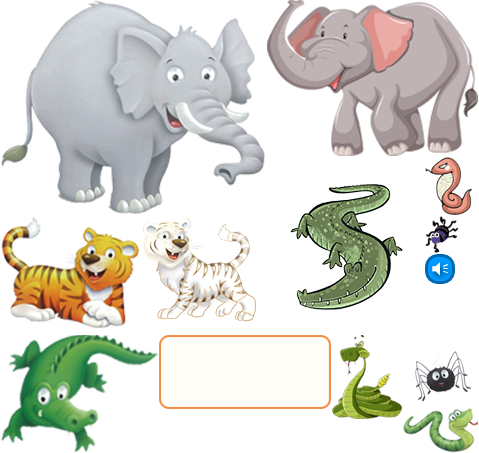
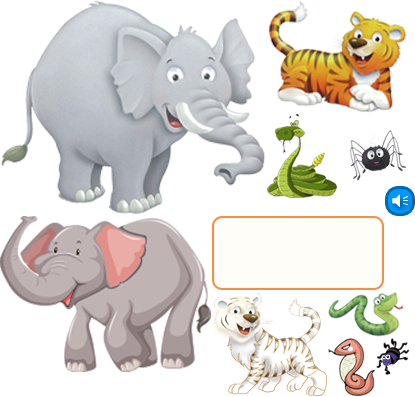
泡泡加赛跑

diff --git a/bin/js/ui/layaUI.max.all.js b/bin/js/ui/layaUI.max.all.js
@@ -21,7 +21,7 @@ var ui;
             _super.prototype.createChildren.call(this);
             this.createView(ui.BubbleAnimalUI.uiView);
         };
-        BubbleAnimalUI.uiView = { "type": "View", "props": { "width": 1024, "height": 768 }, "child": [{ "type": "Image", "props": { "width": 1024, "var": "bg", "skin": "BubbleAnimal/bg1.png", "height": 768 } }, { "type": "Image", "props": { "y": 700, "x": 845, "var": "replayon", "skin": "BubbleAnimal/replayon.png" } }, { "type": "Image", "props": { "y": 700, "x": 845, "var": "replaydown", "skin": "BubbleAnimal/replaydown.png" } }, { "type": "Image", "props": { "y": 52, "x": 936, "var": "polly", "skin": "BubbleAnimal/polly3.png", "pivotX": 68 } }, { "type": "Image", "props": { "y": 171, "x": 42, "skin": "BubbleAnimal/ani1-2.png", "name": "ani1-2" } }, { "type": "Image", "props": { "y": 209, "x": 386, "skin": "BubbleAnimal/ani2-2.png", "name": "ani2-2" } }, { "type": "Image", "props": { "y": 238, "x": 219, "skin": "BubbleAnimal/ani3-2.png", "name": "ani3-2" } }, { "type": "Image", "props": { "y": 205, "x": 782, "skin": "BubbleAnimal/ani4-2.png", "name": "ani4-2" } }, { "type": "Image", "props": { "y": 132, "x": 541, "skin": "BubbleAnimal/ani5-2.png", "name": "ani5-2" } }, { "type": "Image", "props": { "y": 203, "x": 581, "skin": "BubbleAnimal/ani5-1.png", "name": "ani5-1" } }, { "type": "Image", "props": { "y": 231, "x": 53, "skin": "BubbleAnimal/ani1-1.png", "name": "ani1-1" } }, { "type": "Image", "props": { "y": 256, "x": 432, "skin": "BubbleAnimal/ani2-1.png", "name": "ani2-1" } }, { "type": "Image", "props": { "y": 305, "x": 219, "skin": "BubbleAnimal/ani3-1.png", "name": "ani3-1" } }, { "type": "Image", "props": { "y": 268, "x": 782, "skin": "BubbleAnimal/ani4-1.png", "name": "ani4-1" } }] };
+        BubbleAnimalUI.uiView = { "type": "View", "props": { "width": 1024, "height": 768 }, "child": [{ "type": "Image", "props": { "width": 1024, "var": "bg", "skin": "BubbleAnimal/bg1.png", "height": 768 } }, { "type": "Image", "props": { "y": 700, "x": 845, "var": "replayon", "skin": "BubbleAnimal/replayon.png" } }, { "type": "Image", "props": { "y": 700, "x": 845, "var": "replaydown", "skin": "BubbleAnimal/replaydown.png" } }, { "type": "Image", "props": { "y": 52, "x": 936, "var": "polly", "skin": "BubbleAnimal/polly3.png", "pivotX": 68 } }, { "type": "Image", "props": { "y": 171, "x": 82, "skin": "BubbleAnimal/ani1-2.png", "name": "ani1-2" } }, { "type": "Image", "props": { "y": 238, "x": 259, "skin": "BubbleAnimal/ani3-2.png", "name": "ani3-2" } }, { "type": "Image", "props": { "y": 205, "x": 682, "skin": "BubbleAnimal/ani4-2.png", "name": "ani4-2" } }, { "type": "Image", "props": { "y": 132, "x": 441, "skin": "BubbleAnimal/ani2-2.png", "name": "ani2-2" } }, { "type": "Image", "props": { "y": 203, "x": 481, "skin": "BubbleAnimal/ani2-1.png", "name": "ani2-1" } }, { "type": "Image", "props": { "y": 231, "x": 93, "skin": "BubbleAnimal/ani1-1.png", "name": "ani1-1" } }, { "type": "Image", "props": { "y": 305, "x": 259, "skin": "BubbleAnimal/ani3-1.png", "name": "ani3-1" } }, { "type": "Image", "props": { "y": 268, "x": 682, "skin": "BubbleAnimal/ani4-1.png", "name": "ani4-1" } }] };
         return BubbleAnimalUI;
     }(View));
     ui.BubbleAnimalUI = BubbleAnimalUI;
@@ -36,7 +36,7 @@ var ui;
             _super.prototype.createChildren.call(this);
             this.createView(ui.DragAnimalUI.uiView);
         };
-        DragAnimalUI.uiView = { "type": "View", "props": { "width": 1024, "height": 768 }, "child": [{ "type": "Image", "props": { "y": 0, "x": 0, "skin": "DragAnimal/main-bg.png" } }, { "type": "Image", "props": { "y": 666, "x": 30, "skin": "DragAnimal/bottom-bg.png" } }, { "type": "Image", "props": { "y": 666, "x": 228, "skin": "DragAnimal/bottom-bg.png" } }, { "type": "Image", "props": { "y": 666, "x": 426, "skin": "DragAnimal/bottom-bg.png" } }, { "type": "Image", "props": { "y": 666, "x": 624, "skin": "DragAnimal/bottom-bg.png" } }, { "type": "Image", "props": { "y": 666, "x": 822, "skin": "DragAnimal/bottom-bg.png" } }, { "type": "Image", "props": { "y": 672, "x": 36, "var": "crocodileAudio", "skin": "DragAnimal/audio.png" } }, { "type": "Image", "props": { "y": 672, "x": 234, "var": "elephantAudio", "skin": "DragAnimal/audio.png" } }, { "type": "Image", "props": { "y": 673, "x": 433, "var": "snakeAudio", "skin": "DragAnimal/audio.png" } }, { "type": "Image", "props": { "y": 673, "x": 632, "var": "spiderAudio", "skin": "DragAnimal/audio.png" } }, { "type": "Image", "props": { "y": 674, "x": 829, "var": "tigerAudio", "skin": "DragAnimal/audio.png" } }, { "type": "Image", "props": { "y": 570, "x": 858, "var": "replayBtn", "skin": "common/replay-disabled.png" } }, { "type": "Image", "props": { "y": 490, "x": 532, "var": "crocodile1", "skin": "DragAnimal/crocodile1.png" } }, { "type": "Image", "props": { "y": 447, "x": 729, "var": "crocodile2", "skin": "DragAnimal/crocodile2.png" } }, { "type": "Image", "props": { "y": 512, "x": 7, "var": "tiger1", "skin": "DragAnimal/tiger1.png" } }, { "type": "Image", "props": { "y": 521, "x": 149, "width": 46, "var": "snake2", "skin": "DragAnimal/snake2.png", "height": 54 } }, { "type": "Image", "props": { "y": 402, "x": 200, "var": "elephant1", "skin": "DragAnimal/elephant1.png" } }, { "type": "Image", "props": { "y": 368, "x": 1, "var": "elephant2", "skin": "DragAnimal/elephant2.png" } }, { "type": "Image", "props": { "y": 538, "x": 467, "var": "snake1", "skin": "DragAnimal/snake1.png" } }, { "type": "Image", "props": { "y": 579, "x": 153, "var": "snake3", "skin": "DragAnimal/snake3.png" } }, { "type": "Image", "props": { "y": 506, "x": 951, "var": "spider1", "skin": "DragAnimal/spider1.png" } }, { "type": "Image", "props": { "y": 341, "x": 907, "var": "spider2", "skin": "DragAnimal/spider2.png" } }, { "type": "Image", "props": { "y": 357, "x": 438, "var": "tiger2", "skin": "DragAnimal/tiger2.png" } }, { "type": "Image", "props": { "y": 678, "x": 67, "width": 70, "var": "crocodile1Small", "skin": "DragAnimal/crocodile1.png", "height": 58 } }, { "type": "Image", "props": { "y": 661, "x": 133, "width": 63, "var": "crocodile2Small", "skin": "DragAnimal/crocodile2.png", "height": 85 } }, { "type": "Image", "props": { "y": 674, "x": 258, "width": 72, "var": "elephant1Small", "skin": "DragAnimal/elephant1.png", "height": 52 } }, { "type": "Image", "props": { "y": 679, "x": 327, "width": 68, "var": "elephant2Small", "skin": "DragAnimal/elephant2.png", "height": 45 } }, { "type": "Image", "props": { "y": 690, "x": 508, "width": 40, "var": "snake1Small", "skin": "DragAnimal/snake1.png", "height": 45 } }, { "type": "Image", "props": { "y": 677, "x": 464, "width": 37, "var": "snake2Small", "skin": "DragAnimal/snake2.png", "height": 45 } }, { "type": "Image", "props": { "y": 669, "x": 523, "width": 71, "var": "snake3Small", "skin": "DragAnimal/snake3.png", "height": 41 } }, { "type": "Image", "props": { "y": 684, "x": 679, "width": 34, "var": "spider1Small", "skin": "DragAnimal/spider1.png", "height": 37 } }, { "type": "Image", "props": { "y": 658, "x": 718, "width": 68, "var": "spider2Small", "skin": "DragAnimal/spider2.png", "height": 71 } }, { "type": "Image", "props": { "y": 668, "x": 921, "width": 70, "var": "tiger1Small", "skin": "DragAnimal/tiger1.png", "height": 51 } }, { "type": "Image", "props": { "y": 686, "x": 859, "width": 64, "var": "tiger2Small", "skin": "DragAnimal/tiger2.png", "height": 50 } }] };
+        DragAnimalUI.uiView = { "type": "View", "props": { "width": 1024, "height": 768 }, "child": [{ "type": "Image", "props": { "y": 0, "x": 0, "skin": "DragAnimal/main-bg.png" } }, { "type": "Image", "props": { "y": 666, "x": 67, "skin": "DragAnimal/bottom-bg.png" } }, { "type": "Image", "props": { "y": 666, "x": 306, "skin": "DragAnimal/bottom-bg.png" } }, { "type": "Image", "props": { "y": 666, "x": 545, "skin": "DragAnimal/bottom-bg.png" } }, { "type": "Image", "props": { "y": 666, "x": 784, "skin": "DragAnimal/bottom-bg.png" } }, { "type": "Image", "props": { "y": 672, "x": 73, "var": "elephantAudio", "skin": "DragAnimal/audio.png" } }, { "type": "Image", "props": { "y": 673, "x": 313, "var": "snakeAudio", "skin": "DragAnimal/audio.png" } }, { "type": "Image", "props": { "y": 673, "x": 553, "var": "spiderAudio", "skin": "DragAnimal/audio.png" } }, { "type": "Image", "props": { "y": 674, "x": 791, "var": "tigerAudio", "skin": "DragAnimal/audio.png" } }, { "type": "Image", "props": { "y": 570, "x": 858, "var": "replayBtn", "skin": "common/replay-disabled.png" } }, { "type": "Image", "props": { "y": 512, "x": 10, "var": "tiger1", "skin": "DragAnimal/tiger1.png" } }, { "type": "Image", "props": { "y": 453, "x": 611, "width": 46, "var": "snake2", "skin": "DragAnimal/snake2.png", "height": 54 } }, { "type": "Image", "props": { "y": 362, "x": 284, "var": "elephant1", "skin": "DragAnimal/elephant1.png" } }, { "type": "Image", "props": { "y": 376, "x": 69, "var": "elephant2", "skin": "DragAnimal/elephant2.png" } }, { "type": "Image", "props": { "y": 535, "x": 457, "var": "snake1", "skin": "DragAnimal/snake1.png" } }, { "type": "Image", "props": { "y": 569, "x": 244, "var": "snake3", "skin": "DragAnimal/snake3.png" } }, { "type": "Image", "props": { "y": 506, "x": 951, "var": "spider1", "skin": "DragAnimal/spider1.png" } }, { "type": "Image", "props": { "y": 341, "x": 907, "var": "spider2", "skin": "DragAnimal/spider2.png" } }, { "type": "Image", "props": { "y": 401, "x": 737, "var": "tiger2", "skin": "DragAnimal/tiger2.png" } }, { "type": "Image", "props": { "y": 674, "x": 97, "width": 72, "var": "elephant1Small", "skin": "DragAnimal/elephant1.png", "height": 52 } }, { "type": "Image", "props": { "y": 679, "x": 166, "width": 68, "var": "elephant2Small", "skin": "DragAnimal/elephant2.png", "height": 45 } }, { "type": "Image", "props": { "y": 690, "x": 388, "width": 40, "var": "snake1Small", "skin": "DragAnimal/snake1.png", "height": 45 } }, { "type": "Image", "props": { "y": 677, "x": 344, "width": 37, "var": "snake2Small", "skin": "DragAnimal/snake2.png", "height": 45 } }, { "type": "Image", "props": { "y": 669, "x": 403, "width": 71, "var": "snake3Small", "skin": "DragAnimal/snake3.png", "height": 41 } }, { "type": "Image", "props": { "y": 684, "x": 600, "width": 34, "var": "spider1Small", "skin": "DragAnimal/spider1.png", "height": 37 } }, { "type": "Image", "props": { "y": 658, "x": 639, "width": 68, "var": "spider2Small", "skin": "DragAnimal/spider2.png", "height": 71 } }, { "type": "Image", "props": { "y": 668, "x": 883, "width": 70, "var": "tiger1Small", "skin": "DragAnimal/tiger1.png", "height": 51 } }, { "type": "Image", "props": { "y": 686, "x": 821, "width": 64, "var": "tiger2Small", "skin": "DragAnimal/tiger2.png", "height": 50 } }] };
         return DragAnimalUI;
     }(View));
     ui.DragAnimalUI = DragAnimalUI;
@@ -51,7 +51,7 @@ var ui;
             _super.prototype.createChildren.call(this);
             this.createView(ui.RunRaceUI.uiView);
         };
-        RunRaceUI.uiView = { "type": "View", "props": { "width": 1024, "height": 768 }, "child": [{ "type": "Image", "props": { "width": 1024, "var": "bg", "skin": "RunRace/bg.png", "height": 768 } }, { "type": "Image", "props": { "var": "readygo", "skin": "RunRace/start.png", "centerY": 0, "centerX": 0 } }, { "type": "Image", "props": { "y": 126, "x": 106, "skin": "RunRace/fans-robbit-1.png", "name": "fans1" } }, { "type": "Image", "props": { "y": 146, "x": 241, "skin": "RunRace/fans-cat-1.png", "name": "fans2" } }, { "type": "Image", "props": { "y": 124, "x": 390, "skin": "RunRace/fans-robbit-1.png", "name": "fans3" } }, { "type": "Image", "props": { "y": 122, "x": 684, "skin": "RunRace/fans-robbit-1.png", "name": "fans4" } }, { "type": "Image", "props": { "y": 146, "x": 528, "skin": "RunRace/fans-cat-1.png", "name": "fans5" } }, { "type": "Image", "props": { "y": 148, "x": 830, "skin": "RunRace/fans-cat-1.png", "name": "fans6" } }, { "type": "Image", "props": { "y": 367, "x": 5, "skin": "RunRace/player1.png", "pivotY": 20, "pivotX": -30, "name": "player1" } }, { "type": "Image", "props": { "y": 589, "x": 4, "skin": "RunRace/player2.png", "pivotY": 20, "pivotX": -30, "name": "player2" } }, { "type": "Image", "props": { "y": 293, "x": 3, "skin": "RunRace/player3.png", "pivotY": 15, "pivotX": -40, "name": "player3" } }, { "type": "Image", "props": { "y": 441, "x": 3, "skin": "RunRace/player4.png", "pivotY": 20, "pivotX": -40, "name": "player4" } }, { "type": "Image", "props": { "y": 516, "x": 6, "skin": "RunRace/player5.png", "pivotX": -5, "name": "player5" } }, { "type": "Image", "props": { "y": 280, "x": 920, "visible": false, "var": "winner", "skin": "RunRace/winner.png" } }, { "type": "Box", "props": { "y": 657, "x": 0, "width": 1024, "var": "btnbox", "height": 105 }, "child": [{ "type": "Image", "props": { "y": -7, "x": 540, "skin": "RunRace/player1-btn1.png", "name": "btn-player1" } }, { "type": "Image", "props": { "y": -10, "x": 32, "skin": "RunRace/player2-btn1.png", "name": "btn-player2" } }, { "type": "Image", "props": { "y": 8, "x": 710, "skin": "RunRace/player3-btn1.png", "name": "btn-player3" } }, { "type": "Image", "props": { "y": 5, "x": 370, "skin": "RunRace/player4-btn1.png", "name": "btn-player4" } }, { "type": "Image", "props": { "y": 9, "x": 200, "skin": "RunRace/player5-btn1.png", "name": "btn-player5" } }, { "type": "Image", "props": { "y": 11, "x": 540, "skin": "RunRace/player1-btn2.png", "name": "btn2-player1" } }, { "type": "Image", "props": { "y": 6, "x": 32, "skin": "RunRace/player2-btn2.png", "name": "btn2-player2" } }, { "type": "Image", "props": { "y": 23, "x": 710, "skin": "RunRace/player3-btn2.png", "name": "btn2-player3" } }, { "type": "Image", "props": { "y": 19, "x": 370, "skin": "RunRace/player4-btn2.png", "name": "btn2-player4" } }, { "type": "Image", "props": { "y": 23, "x": 200, "skin": "RunRace/player5-btn2.png", "name": "btn2-player5" } }, { "type": "Image", "props": { "y": 34, "x": 891, "visible": false, "var": "replayon", "skin": "RunRace/replay1.png" } }, { "type": "Image", "props": { "y": 51, "x": 891, "var": "replaydown", "skin": "RunRace/replay2.png" } }] }] };
+        RunRaceUI.uiView = { "type": "View", "props": { "width": 1024, "height": 768 }, "child": [{ "type": "Image", "props": { "width": 1024, "var": "bg", "skin": "RunRace/bg4.png", "height": 768 } }, { "type": "Image", "props": { "var": "readygo", "skin": "RunRace/start.png", "centerY": 0, "centerX": 0 } }, { "type": "Image", "props": { "y": 126, "x": 106, "skin": "RunRace/fans-robbit-1.png", "name": "fans1" } }, { "type": "Image", "props": { "y": 146, "x": 241, "skin": "RunRace/fans-cat-1.png", "name": "fans2" } }, { "type": "Image", "props": { "y": 124, "x": 390, "skin": "RunRace/fans-robbit-1.png", "name": "fans3" } }, { "type": "Image", "props": { "y": 122, "x": 684, "skin": "RunRace/fans-robbit-1.png", "name": "fans4" } }, { "type": "Image", "props": { "y": 146, "x": 528, "skin": "RunRace/fans-cat-1.png", "name": "fans5" } }, { "type": "Image", "props": { "y": 148, "x": 830, "skin": "RunRace/fans-cat-1.png", "name": "fans6" } }, { "type": "Image", "props": { "y": 390, "x": 5, "skin": "RunRace/player1.png", "pivotY": 20, "pivotX": -30, "name": "player1" } }, { "type": "Image", "props": { "y": 579, "x": 4, "skin": "RunRace/player2.png", "pivotY": 20, "pivotX": -30, "name": "player2" } }, { "type": "Image", "props": { "y": 303, "x": 3, "skin": "RunRace/player3.png", "pivotY": 15, "pivotX": -40, "name": "player3" } }, { "type": "Image", "props": { "y": 495, "x": 6, "skin": "RunRace/player4.png", "pivotX": -5, "name": "player4" } }, { "type": "Image", "props": { "y": 280, "x": 920, "visible": false, "var": "winner", "skin": "RunRace/winner.png" } }, { "type": "Box", "props": { "y": 657, "x": 0, "width": 1024, "var": "btnbox", "height": 105 }, "child": [{ "type": "Image", "props": { "y": -7, "x": 490, "skin": "RunRace/player1-btn1.png", "name": "btn-player1" } }, { "type": "Image", "props": { "y": -10, "x": 32, "skin": "RunRace/player2-btn1.png", "name": "btn-player2" } }, { "type": "Image", "props": { "y": 8, "x": 720, "skin": "RunRace/player3-btn1.png", "name": "btn-player3" } }, { "type": "Image", "props": { "y": 9, "x": 260, "skin": "RunRace/player4-btn1.png", "name": "btn-player4" } }, { "type": "Image", "props": { "y": 11, "x": 490, "skin": "RunRace/player1-btn2.png", "name": "btn2-player1" } }, { "type": "Image", "props": { "y": 6, "x": 32, "skin": "RunRace/player2-btn2.png", "name": "btn2-player2" } }, { "type": "Image", "props": { "y": 23, "x": 720, "skin": "RunRace/player3-btn2.png", "name": "btn2-player3" } }, { "type": "Image", "props": { "y": 23, "x": 260, "skin": "RunRace/player4-btn2.png", "name": "btn2-player4" } }, { "type": "Image", "props": { "y": 34, "x": 891, "visible": false, "var": "replayon", "skin": "RunRace/replay1.png" } }, { "type": "Image", "props": { "y": 51, "x": 891, "var": "replaydown", "skin": "RunRace/replay2.png" } }] }] };
         return RunRaceUI;
     }(View));
     ui.RunRaceUI = RunRaceUI;

diff --git a/src/ui/layaUI.max.all.ts b/src/ui/layaUI.max.all.ts
@@ -8,7 +8,7 @@ module ui {
 		public replaydown:Laya.Image;
 		public polly:Laya.Image;
 
-        public static  uiView:any ={"type":"View","props":{"width":1024,"height":768},"child":[{"type":"Image","props":{"width":1024,"var":"bg","skin":"BubbleAnimal/bg1.png","height":768}},{"type":"Image","props":{"y":700,"x":845,"var":"replayon","skin":"BubbleAnimal/replayon.png"}},{"type":"Image","props":{"y":700,"x":845,"var":"replaydown","skin":"BubbleAnimal/replaydown.png"}},{"type":"Image","props":{"y":52,"x":936,"var":"polly","skin":"BubbleAnimal/polly3.png","pivotX":68}},{"type":"Image","props":{"y":171,"x":42,"skin":"BubbleAnimal/ani1-2.png","name":"ani1-2"}},{"type":"Image","props":{"y":209,"x":386,"skin":"BubbleAnimal/ani2-2.png","name":"ani2-2"}},{"type":"Image","props":{"y":238,"x":219,"skin":"BubbleAnimal/ani3-2.png","name":"ani3-2"}},{"type":"Image","props":{"y":205,"x":782,"skin":"BubbleAnimal/ani4-2.png","name":"ani4-2"}},{"type":"Image","props":{"y":132,"x":541,"skin":"BubbleAnimal/ani5-2.png","name":"ani5-2"}},{"type":"Image","props":{"y":203,"x":581,"skin":"BubbleAnimal/ani5-1.png","name":"ani5-1"}},{"type":"Image","props":{"y":231,"x":53,"skin":"BubbleAnimal/ani1-1.png","name":"ani1-1"}},{"type":"Image","props":{"y":256,"x":432,"skin":"BubbleAnimal/ani2-1.png","name":"ani2-1"}},{"type":"Image","props":{"y":305,"x":219,"skin":"BubbleAnimal/ani3-1.png","name":"ani3-1"}},{"type":"Image","props":{"y":268,"x":782,"skin":"BubbleAnimal/ani4-1.png","name":"ani4-1"}}]};
+        public static  uiView:any ={"type":"View","props":{"width":1024,"height":768},"child":[{"type":"Image","props":{"width":1024,"var":"bg","skin":"BubbleAnimal/bg1.png","height":768}},{"type":"Image","props":{"y":700,"x":845,"var":"replayon","skin":"BubbleAnimal/replayon.png"}},{"type":"Image","props":{"y":700,"x":845,"var":"replaydown","skin":"BubbleAnimal/replaydown.png"}},{"type":"Image","props":{"y":52,"x":936,"var":"polly","skin":"BubbleAnimal/polly3.png","pivotX":68}},{"type":"Image","props":{"y":171,"x":82,"skin":"BubbleAnimal/ani1-2.png","name":"ani1-2"}},{"type":"Image","props":{"y":238,"x":259,"skin":"BubbleAnimal/ani3-2.png","name":"ani3-2"}},{"type":"Image","props":{"y":205,"x":682,"skin":"BubbleAnimal/ani4-2.png","name":"ani4-2"}},{"type":"Image","props":{"y":132,"x":441,"skin":"BubbleAnimal/ani2-2.png","name":"ani2-2"}},{"type":"Image","props":{"y":203,"x":481,"skin":"BubbleAnimal/ani2-1.png","name":"ani2-1"}},{"type":"Image","props":{"y":231,"x":93,"skin":"BubbleAnimal/ani1-1.png","name":"ani1-1"}},{"type":"Image","props":{"y":305,"x":259,"skin":"BubbleAnimal/ani3-1.png","name":"ani3-1"}},{"type":"Image","props":{"y":268,"x":682,"skin":"BubbleAnimal/ani4-1.png","name":"ani4-1"}}]};
         constructor(){ super()}
         createChildren():void {
         
@@ -22,14 +22,11 @@ module ui {
 
 module ui {
     export class DragAnimalUI extends View {
-		public crocodileAudio:Laya.Image;
 		public elephantAudio:Laya.Image;
 		public snakeAudio:Laya.Image;
 		public spiderAudio:Laya.Image;
 		public tigerAudio:Laya.Image;
 		public replayBtn:Laya.Image;
-		public crocodile1:Laya.Image;
-		public crocodile2:Laya.Image;
 		public tiger1:Laya.Image;
 		public snake2:Laya.Image;
 		public elephant1:Laya.Image;
@@ -39,8 +36,6 @@ module ui {
 		public spider1:Laya.Image;
 		public spider2:Laya.Image;
 		public tiger2:Laya.Image;
-		public crocodile1Small:Laya.Image;
-		public crocodile2Small:Laya.Image;
 		public elephant1Small:Laya.Image;
 		public elephant2Small:Laya.Image;
 		public snake1Small:Laya.Image;
@@ -51,7 +46,7 @@ module ui {
 		public tiger1Small:Laya.Image;
 		public tiger2Small:Laya.Image;
 
-        public static  uiView:any ={"type":"View","props":{"width":1024,"height":768},"child":[{"type":"Image","props":{"y":0,"x":0,"skin":"DragAnimal/main-bg.png"}},{"type":"Image","props":{"y":666,"x":30,"skin":"DragAnimal/bottom-bg.png"}},{"type":"Image","props":{"y":666,"x":228,"skin":"DragAnimal/bottom-bg.png"}},{"type":"Image","props":{"y":666,"x":426,"skin":"DragAnimal/bottom-bg.png"}},{"type":"Image","props":{"y":666,"x":624,"skin":"DragAnimal/bottom-bg.png"}},{"type":"Image","props":{"y":666,"x":822,"skin":"DragAnimal/bottom-bg.png"}},{"type":"Image","props":{"y":672,"x":36,"var":"crocodileAudio","skin":"DragAnimal/audio.png"}},{"type":"Image","props":{"y":672,"x":234,"var":"elephantAudio","skin":"DragAnimal/audio.png"}},{"type":"Image","props":{"y":673,"x":433,"var":"snakeAudio","skin":"DragAnimal/audio.png"}},{"type":"Image","props":{"y":673,"x":632,"var":"spiderAudio","skin":"DragAnimal/audio.png"}},{"type":"Image","props":{"y":674,"x":829,"var":"tigerAudio","skin":"DragAnimal/audio.png"}},{"type":"Image","props":{"y":570,"x":858,"var":"replayBtn","skin":"common/replay-disabled.png"}},{"type":"Image","props":{"y":490,"x":532,"var":"crocodile1","skin":"DragAnimal/crocodile1.png"}},{"type":"Image","props":{"y":447,"x":729,"var":"crocodile2","skin":"DragAnimal/crocodile2.png"}},{"type":"Image","props":{"y":512,"x":7,"var":"tiger1","skin":"DragAnimal/tiger1.png"}},{"type":"Image","props":{"y":521,"x":149,"width":46,"var":"snake2","skin":"DragAnimal/snake2.png","height":54}},{"type":"Image","props":{"y":402,"x":200,"var":"elephant1","skin":"DragAnimal/elephant1.png"}},{"type":"Image","props":{"y":368,"x":1,"var":"elephant2","skin":"DragAnimal/elephant2.png"}},{"type":"Image","props":{"y":538,"x":467,"var":"snake1","skin":"DragAnimal/snake1.png"}},{"type":"Image","props":{"y":579,"x":153,"var":"snake3","skin":"DragAnimal/snake3.png"}},{"type":"Image","props":{"y":506,"x":951,"var":"spider1","skin":"DragAnimal/spider1.png"}},{"type":"Image","props":{"y":341,"x":907,"var":"spider2","skin":"DragAnimal/spider2.png"}},{"type":"Image","props":{"y":357,"x":438,"var":"tiger2","skin":"DragAnimal/tiger2.png"}},{"type":"Image","props":{"y":678,"x":67,"width":70,"var":"crocodile1Small","skin":"DragAnimal/crocodile1.png","height":58}},{"type":"Image","props":{"y":661,"x":133,"width":63,"var":"crocodile2Small","skin":"DragAnimal/crocodile2.png","height":85}},{"type":"Image","props":{"y":674,"x":258,"width":72,"var":"elephant1Small","skin":"DragAnimal/elephant1.png","height":52}},{"type":"Image","props":{"y":679,"x":327,"width":68,"var":"elephant2Small","skin":"DragAnimal/elephant2.png","height":45}},{"type":"Image","props":{"y":690,"x":508,"width":40,"var":"snake1Small","skin":"DragAnimal/snake1.png","height":45}},{"type":"Image","props":{"y":677,"x":464,"width":37,"var":"snake2Small","skin":"DragAnimal/snake2.png","height":45}},{"type":"Image","props":{"y":669,"x":523,"width":71,"var":"snake3Small","skin":"DragAnimal/snake3.png","height":41}},{"type":"Image","props":{"y":684,"x":679,"width":34,"var":"spider1Small","skin":"DragAnimal/spider1.png","height":37}},{"type":"Image","props":{"y":658,"x":718,"width":68,"var":"spider2Small","skin":"DragAnimal/spider2.png","height":71}},{"type":"Image","props":{"y":668,"x":921,"width":70,"var":"tiger1Small","skin":"DragAnimal/tiger1.png","height":51}},{"type":"Image","props":{"y":686,"x":859,"width":64,"var":"tiger2Small","skin":"DragAnimal/tiger2.png","height":50}}]};
+        public static  uiView:any ={"type":"View","props":{"width":1024,"height":768},"child":[{"type":"Image","props":{"y":0,"x":0,"skin":"DragAnimal/main-bg.png"}},{"type":"Image","props":{"y":666,"x":67,"skin":"DragAnimal/bottom-bg.png"}},{"type":"Image","props":{"y":666,"x":306,"skin":"DragAnimal/bottom-bg.png"}},{"type":"Image","props":{"y":666,"x":545,"skin":"DragAnimal/bottom-bg.png"}},{"type":"Image","props":{"y":666,"x":784,"skin":"DragAnimal/bottom-bg.png"}},{"type":"Image","props":{"y":672,"x":73,"var":"elephantAudio","skin":"DragAnimal/audio.png"}},{"type":"Image","props":{"y":673,"x":313,"var":"snakeAudio","skin":"DragAnimal/audio.png"}},{"type":"Image","props":{"y":673,"x":553,"var":"spiderAudio","skin":"DragAnimal/audio.png"}},{"type":"Image","props":{"y":674,"x":791,"var":"tigerAudio","skin":"DragAnimal/audio.png"}},{"type":"Image","props":{"y":570,"x":858,"var":"replayBtn","skin":"common/replay-disabled.png"}},{"type":"Image","props":{"y":512,"x":10,"var":"tiger1","skin":"DragAnimal/tiger1.png"}},{"type":"Image","props":{"y":453,"x":611,"width":46,"var":"snake2","skin":"DragAnimal/snake2.png","height":54}},{"type":"Image","props":{"y":362,"x":284,"var":"elephant1","skin":"DragAnimal/elephant1.png"}},{"type":"Image","props":{"y":376,"x":69,"var":"elephant2","skin":"DragAnimal/elephant2.png"}},{"type":"Image","props":{"y":535,"x":457,"var":"snake1","skin":"DragAnimal/snake1.png"}},{"type":"Image","props":{"y":569,"x":244,"var":"snake3","skin":"DragAnimal/snake3.png"}},{"type":"Image","props":{"y":506,"x":951,"var":"spider1","skin":"DragAnimal/spider1.png"}},{"type":"Image","props":{"y":341,"x":907,"var":"spider2","skin":"DragAnimal/spider2.png"}},{"type":"Image","props":{"y":401,"x":737,"var":"tiger2","skin":"DragAnimal/tiger2.png"}},{"type":"Image","props":{"y":674,"x":97,"width":72,"var":"elephant1Small","skin":"DragAnimal/elephant1.png","height":52}},{"type":"Image","props":{"y":679,"x":166,"width":68,"var":"elephant2Small","skin":"DragAnimal/elephant2.png","height":45}},{"type":"Image","props":{"y":690,"x":388,"width":40,"var":"snake1Small","skin":"DragAnimal/snake1.png","height":45}},{"type":"Image","props":{"y":677,"x":344,"width":37,"var":"snake2Small","skin":"DragAnimal/snake2.png","height":45}},{"type":"Image","props":{"y":669,"x":403,"width":71,"var":"snake3Small","skin":"DragAnimal/snake3.png","height":41}},{"type":"Image","props":{"y":684,"x":600,"width":34,"var":"spider1Small","skin":"DragAnimal/spider1.png","height":37}},{"type":"Image","props":{"y":658,"x":639,"width":68,"var":"spider2Small","skin":"DragAnimal/spider2.png","height":71}},{"type":"Image","props":{"y":668,"x":883,"width":70,"var":"tiger1Small","skin":"DragAnimal/tiger1.png","height":51}},{"type":"Image","props":{"y":686,"x":821,"width":64,"var":"tiger2Small","skin":"DragAnimal/tiger2.png","height":50}}]};
         constructor(){ super()}
         createChildren():void {
         
@@ -72,7 +67,7 @@ module ui {
 		public replayon:Laya.Image;
 		public replaydown:Laya.Image;
 
-        public static  uiView:any ={"type":"View","props":{"width":1024,"height":768},"child":[{"type":"Image","props":{"width":1024,"var":"bg","skin":"RunRace/bg.png","height":768}},{"type":"Image","props":{"var":"readygo","skin":"RunRace/start.png","centerY":0,"centerX":0}},{"type":"Image","props":{"y":126,"x":106,"skin":"RunRace/fans-robbit-1.png","name":"fans1"}},{"type":"Image","props":{"y":146,"x":241,"skin":"RunRace/fans-cat-1.png","name":"fans2"}},{"type":"Image","props":{"y":124,"x":390,"skin":"RunRace/fans-robbit-1.png","name":"fans3"}},{"type":"Image","props":{"y":122,"x":684,"skin":"RunRace/fans-robbit-1.png","name":"fans4"}},{"type":"Image","props":{"y":146,"x":528,"skin":"RunRace/fans-cat-1.png","name":"fans5"}},{"type":"Image","props":{"y":148,"x":830,"skin":"RunRace/fans-cat-1.png","name":"fans6"}},{"type":"Image","props":{"y":367,"x":5,"skin":"RunRace/player1.png","pivotY":20,"pivotX":-30,"name":"player1"}},{"type":"Image","props":{"y":589,"x":4,"skin":"RunRace/player2.png","pivotY":20,"pivotX":-30,"name":"player2"}},{"type":"Image","props":{"y":293,"x":3,"skin":"RunRace/player3.png","pivotY":15,"pivotX":-40,"name":"player3"}},{"type":"Image","props":{"y":441,"x":3,"skin":"RunRace/player4.png","pivotY":20,"pivotX":-40,"name":"player4"}},{"type":"Image","props":{"y":516,"x":6,"skin":"RunRace/player5.png","pivotX":-5,"name":"player5"}},{"type":"Image","props":{"y":280,"x":920,"visible":false,"var":"winner","skin":"RunRace/winner.png"}},{"type":"Box","props":{"y":657,"x":0,"width":1024,"var":"btnbox","height":105},"child":[{"type":"Image","props":{"y":-7,"x":540,"skin":"RunRace/player1-btn1.png","name":"btn-player1"}},{"type":"Image","props":{"y":-10,"x":32,"skin":"RunRace/player2-btn1.png","name":"btn-player2"}},{"type":"Image","props":{"y":8,"x":710,"skin":"RunRace/player3-btn1.png","name":"btn-player3"}},{"type":"Image","props":{"y":5,"x":370,"skin":"RunRace/player4-btn1.png","name":"btn-player4"}},{"type":"Image","props":{"y":9,"x":200,"skin":"RunRace/player5-btn1.png","name":"btn-player5"}},{"type":"Image","props":{"y":11,"x":540,"skin":"RunRace/player1-btn2.png","name":"btn2-player1"}},{"type":"Image","props":{"y":6,"x":32,"skin":"RunRace/player2-btn2.png","name":"btn2-player2"}},{"type":"Image","props":{"y":23,"x":710,"skin":"RunRace/player3-btn2.png","name":"btn2-player3"}},{"type":"Image","props":{"y":19,"x":370,"skin":"RunRace/player4-btn2.png","name":"btn2-player4"}},{"type":"Image","props":{"y":23,"x":200,"skin":"RunRace/player5-btn2.png","name":"btn2-player5"}},{"type":"Image","props":{"y":34,"x":891,"visible":false,"var":"replayon","skin":"RunRace/replay1.png"}},{"type":"Image","props":{"y":51,"x":891,"var":"replaydown","skin":"RunRace/replay2.png"}}]}]};
+        public static  uiView:any ={"type":"View","props":{"width":1024,"height":768},"child":[{"type":"Image","props":{"width":1024,"var":"bg","skin":"RunRace/bg4.png","height":768}},{"type":"Image","props":{"var":"readygo","skin":"RunRace/start.png","centerY":0,"centerX":0}},{"type":"Image","props":{"y":126,"x":106,"skin":"RunRace/fans-robbit-1.png","name":"fans1"}},{"type":"Image","props":{"y":146,"x":241,"skin":"RunRace/fans-cat-1.png","name":"fans2"}},{"type":"Image","props":{"y":124,"x":390,"skin":"RunRace/fans-robbit-1.png","name":"fans3"}},{"type":"Image","props":{"y":122,"x":684,"skin":"RunRace/fans-robbit-1.png","name":"fans4"}},{"type":"Image","props":{"y":146,"x":528,"skin":"RunRace/fans-cat-1.png","name":"fans5"}},{"type":"Image","props":{"y":148,"x":830,"skin":"RunRace/fans-cat-1.png","name":"fans6"}},{"type":"Image","props":{"y":390,"x":5,"skin":"RunRace/player1.png","pivotY":20,"pivotX":-30,"name":"player1"}},{"type":"Image","props":{"y":579,"x":4,"skin":"RunRace/player2.png","pivotY":20,"pivotX":-30,"name":"player2"}},{"type":"Image","props":{"y":303,"x":3,"skin":"RunRace/player3.png","pivotY":15,"pivotX":-40,"name":"player3"}},{"type":"Image","props":{"y":495,"x":6,"skin":"RunRace/player4.png","pivotX":-5,"name":"player4"}},{"type":"Image","props":{"y":280,"x":920,"visible":false,"var":"winner","skin":"RunRace/winner.png"}},{"type":"Box","props":{"y":657,"x":0,"width":1024,"var":"btnbox","height":105},"child":[{"type":"Image","props":{"y":-7,"x":490,"skin":"RunRace/player1-btn1.png","name":"btn-player1"}},{"type":"Image","props":{"y":-10,"x":32,"skin":"RunRace/player2-btn1.png","name":"btn-player2"}},{"type":"Image","props":{"y":8,"x":720,"skin":"RunRace/player3-btn1.png","name":"btn-player3"}},{"type":"Image","props":{"y":9,"x":260,"skin":"RunRace/player4-btn1.png","name":"btn-player4"}},{"type":"Image","props":{"y":11,"x":490,"skin":"RunRace/player1-btn2.png","name":"btn2-player1"}},{"type":"Image","props":{"y":6,"x":32,"skin":"RunRace/player2-btn2.png","name":"btn2-player2"}},{"type":"Image","props":{"y":23,"x":720,"skin":"RunRace/player3-btn2.png","name":"btn2-player3"}},{"type":"Image","props":{"y":23,"x":260,"skin":"RunRace/player4-btn2.png","name":"btn2-player4"}},{"type":"Image","props":{"y":34,"x":891,"visible":false,"var":"replayon","skin":"RunRace/replay1.png"}},{"type":"Image","props":{"y":51,"x":891,"var":"replaydown","skin":"RunRace/replay2.png"}}]}]};
         constructor(){ super()}
         createChildren():void {
         

diff --git a/bin/js/BubbleAnimal/BubbleAnimalMain.js b/bin/js/BubbleAnimal/BubbleAnimalMain.js
@@ -26,11 +26,10 @@ var BubbleAnimalMain = /** @class */ (function (_super) {
         //     {x:721,y:382}
         // ]
         _this.positionArr = [
-            { x: 42, y: 171 },
-            { x: 386, y: 209 },
-            { x: 219, y: 238 },
-            { x: 782, y: 205 },
-            { x: 541, y: 132 }
+            { x: 82, y: 171 },
+            { x: 441, y: 132 },
+            { x: 259, y: 238 },
+            { x: 682, y: 205 }
         ];
         _this.restart();
         _this.replayon.on(Laya.Event.CLICK, _this, _this.restart);
@@ -39,7 +38,7 @@ var BubbleAnimalMain = /** @class */ (function (_super) {
     // 游戏重新开始
     BubbleAnimalMain.prototype.restart = function () {
         this.init();
-        for (var i = 1; i < 6; i++) {
+        for (var i = 1; i < 5; i++) {
             var btn1 = this.getChildByName("ani" + i + "-2");
             btn1.on(Laya.Event.CLICK, this, this.btnCLick, [i]);
         }
@@ -48,10 +47,10 @@ var BubbleAnimalMain = /** @class */ (function (_super) {
     BubbleAnimalMain.prototype.init = function () {
         this.clickNum = 0;
         this.goneNum = 0;
-        var ranArr1 = this.getRandomArr(5);
-        var ranArr2 = this.getRandomArr(5);
+        var ranArr1 = this.getRandomArr(4);
+        var ranArr2 = this.getRandomArr(4);
         //生成10个泡泡
-        for (var i = 1; i < 6; i++) {
+        for (var i = 1; i < 5; i++) {
             var ani = new Animal(ranArr1[i - 1]);
             ani.x = 150 + (i - 1) * 150;
             ani.y = 500;
@@ -108,7 +107,7 @@ var BubbleAnimalMain = /** @class */ (function (_super) {
     };
     //地上动物离开
     BubbleAnimalMain.prototype.btnCLick = function (num) {
-        if (this.clickNum < 10)
+        if (this.clickNum < 8)
             return;
         var btn1 = this.getChildByName("ani" + num + "-2");
         btn1.off(Laya.Event.CLICK, this, this.btnCLick);
@@ -117,7 +116,7 @@ var BubbleAnimalMain = /** @class */ (function (_super) {
         Laya.timer.once(2000, this, function () {
             this.goneNum++;
             btn1.visible = false;
-            if (this.goneNum > 4) {
+            if (this.goneNum > 3) {
                 this.wingame();
             }
         });

diff --git a/src/BubbleAnimal/BubbleAnimalMain.ts b/src/BubbleAnimal/BubbleAnimalMain.ts
@@ -17,11 +17,10 @@ class BubbleAnimalMain extends ui.BubbleAnimalUI {
         //     {x:721,y:382}
         // ]
         this.positionArr = [
-            {x:42,y:171},
-            {x:386,y:209},
-            {x:219,y:238},
-            {x:782,y:205},
-            {x:541,y:132}
+            {x:82,y:171},
+            {x:441,y:132},
+            {x:259,y:238},
+            {x:682,y:205}
         ]
         this.restart();
 
@@ -31,7 +30,7 @@ class BubbleAnimalMain extends ui.BubbleAnimalUI {
     // 游戏重新开始
     private restart() {
         this.init();
-        for(var i = 1;i<6;i++){
+        for(var i = 1;i<5;i++){
             let btn1 = this.getChildByName("ani"+i+"-2") as Laya.Image;
             btn1.on(Laya.Event.CLICK,this,this.btnCLick,[i]);
         }
@@ -41,11 +40,11 @@ class BubbleAnimalMain extends ui.BubbleAnimalUI {
     public init(){
         this.clickNum = 0;
         this.goneNum = 0;
-        let ranArr1 = this.getRandomArr(5);
-        let ranArr2 = this.getRandomArr(5);
+        let ranArr1 = this.getRandomArr(4);
+        let ranArr2 = this.getRandomArr(4);
 
         //生成10个泡泡
-        for(var i = 1;i<6;i++){
+        for(var i = 1;i<5;i++){
             let ani = new Animal(ranArr1[i-1]);
             ani.x = 150+(i-1)*150;
             ani.y = 500;
@@ -108,7 +107,7 @@ class BubbleAnimalMain extends ui.BubbleAnimalUI {
 
     //地上动物离开
     public btnCLick(num:number){
-        if(this.clickNum < 10) return;
+        if(this.clickNum < 8) return;
         let btn1 = this.getChildByName("ani"+num+"-2") as Laya.Image;
             btn1.off(Laya.Event.CLICK,this,this.btnCLick);
         Laya.SoundManager.playMusic("res/audio/21-aniout.mp3",1);
@@ -117,7 +116,7 @@ class BubbleAnimalMain extends ui.BubbleAnimalUI {
         Laya.timer.once(2000,this,function(){
             this.goneNum++;
             btn1.visible =false;
-            if(this.goneNum > 4){
+            if(this.goneNum > 3){
                 this.wingame();
             }
         });

diff --git a/bin/js/RunRace/RunRaceMain.js b/bin/js/RunRace/RunRaceMain.js
@@ -19,7 +19,7 @@ var RunRaceMain = /** @class */ (function (_super) {
         _this.speed = 50; // 拉拉队速度
         _this.isGo = false;
         _this.restart();
-        for (var i = 1; i < 6; i++) {
+        for (var i = 1; i < 5; i++) {
             var btn1 = _this.btnbox.getChildByName("btn-player" + i);
             btn1.on(Laya.Event.CLICK, _this, _this.btnCLick, [i]);
         }
@@ -38,7 +38,7 @@ var RunRaceMain = /** @class */ (function (_super) {
         this.readygo.visible = false;
         this.winner.visible = false;
         Laya.timer.clear(this, this.onLoop);
-        for (var i = 1; i < 6; i++) {
+        for (var i = 1; i < 5; i++) {
             var player = this.getChildByName("player" + i);
             player.x = 0;
             var btn1 = this.btnbox.getChildByName("btn-player" + i);
@@ -58,7 +58,7 @@ var RunRaceMain = /** @class */ (function (_super) {
             this.readygo.visible = false;
             this.resetLoop();
             this.isGo = true;
-            for (var i = 1; i < 6; i++) {
+            for (var i = 1; i < 5; i++) {
                 var btn1 = this.btnbox.getChildByName("btn-player" + i);
                 var btn2 = this.btnbox.getChildByName("btn2-player" + i);
                 btn1.visible = true;
@@ -109,7 +109,7 @@ var RunRaceMain = /** @class */ (function (_super) {
         this.speed = 25;
         this.resetLoop();
         Laya.SoundManager.playMusic("res/audio/19-fans.mp3", 1);
-        for (var i = 1; i < 6; i++) {
+        for (var i = 1; i < 5; i++) {
             var player = this.getChildByName("player" + i);
             // let winner = player.getChildByName("winner") as Laya.Image;
             //     winner.visible = false;

diff --git a/src/RunRace/RunRaceMain.ts b/src/RunRace/RunRaceMain.ts
@@ -9,7 +9,7 @@ class RunRaceMain extends ui.RunRaceUI {
     constructor() {
         super(); 
         this.restart();
-        for(var i = 1;i<6;i++){
+        for(var i = 1;i<5;i++){
             let btn1 = this.btnbox.getChildByName("btn-player"+i) as Laya.Image;
             btn1.on(Laya.Event.CLICK,this,this.btnCLick,[i]);
         }
@@ -31,7 +31,7 @@ class RunRaceMain extends ui.RunRaceUI {
         this.winner.visible = false;
         Laya.timer.clear(this,this.onLoop);
 
-        for(var i = 1;i<6;i++){
+        for(var i = 1;i<5;i++){
             let player = this.getChildByName("player"+i) as Laya.Image;
             player.x = 0;
 
@@ -55,7 +55,7 @@ class RunRaceMain extends ui.RunRaceUI {
             this.resetLoop();
             this.isGo = true;
 
-            for(var i = 1;i<6;i++){
+            for(var i = 1;i<5;i++){
                 let btn1 = this.btnbox.getChildByName("btn-player"+i) as Laya.Image;
                 let btn2 = this.btnbox.getChildByName("btn2-player"+i) as Laya.Image;
                 btn1.visible = true;
@@ -112,7 +112,7 @@ class RunRaceMain extends ui.RunRaceUI {
         this.resetLoop();
         Laya.SoundManager.playMusic("res/audio/19-fans.mp3",1);
 
-        for(var i = 1;i<6;i++){
+        for(var i = 1;i<5;i++){
             let player = this.getChildByName("player"+i) as Laya.Image;
             // let winner = player.getChildByName("winner") as Laya.Image;
             //     winner.visible = false;
